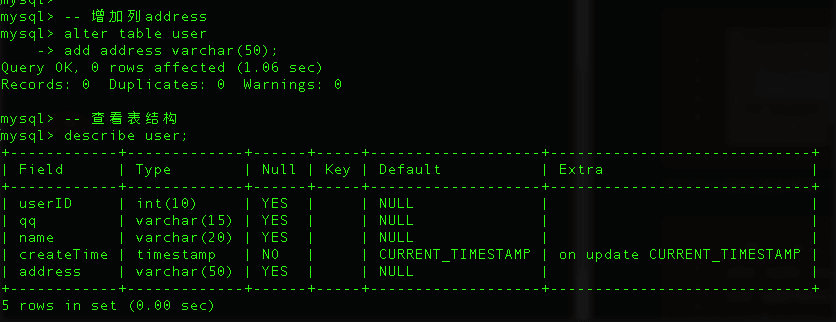
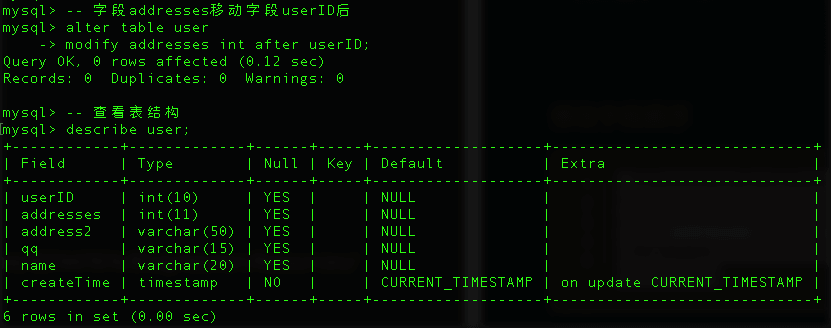
照片提交

diff --git a/数据库/SQL基础.md b/数据库/SQL基础.md
@@ -144,6 +144,8 @@ add address varchar(50);
 describe user;
 ```
 
+![DDl-2](https://raw.githubusercontent.com/937447974/Blog/master/Resources/2015111103.png)
+
 你还可以指定添加到某个字段后
 
 ```sql
@@ -153,6 +155,8 @@ add address2 varchar(50) after userID;
 -- 查看表结构
 describe user;
 ```
+
+![DDl-3](https://raw.githubusercontent.com/937447974/Blog/master/Resources/2015111105.png)
 
 ###修改字段类型
 
@@ -166,6 +170,8 @@ change address address int;
 describe user;
 ```
 
+![DDl-4](https://raw.githubusercontent.com/937447974/Blog/master/Resources/2015111102.png)
+
 ###修改字段名
 
 运用上面的sql语句还可以修改字段名。
@@ -178,6 +184,8 @@ change address addresses int;
 describe user;
 ```
 
+![DDl-5](https://raw.githubusercontent.com/937447974/Blog/master/Resources/2015111106.png)
+
 ###修改字段顺序
 
 ```sql
@@ -187,6 +195,8 @@ modify addresses int after userID;
 -- 查看表结构
 describe user;
 ```
+
+![DDl-6](https://raw.githubusercontent.com/937447974/Blog/master/Resources/2015111103.png)
 
 ###删除字段
 
@@ -198,6 +208,7 @@ alter table user drop address2;
 describe user;
 ```
 
+![DDl-7](https://raw.githubusercontent.com/937447974/Blog/master/Resources/2015111107.png)
 
 
 
